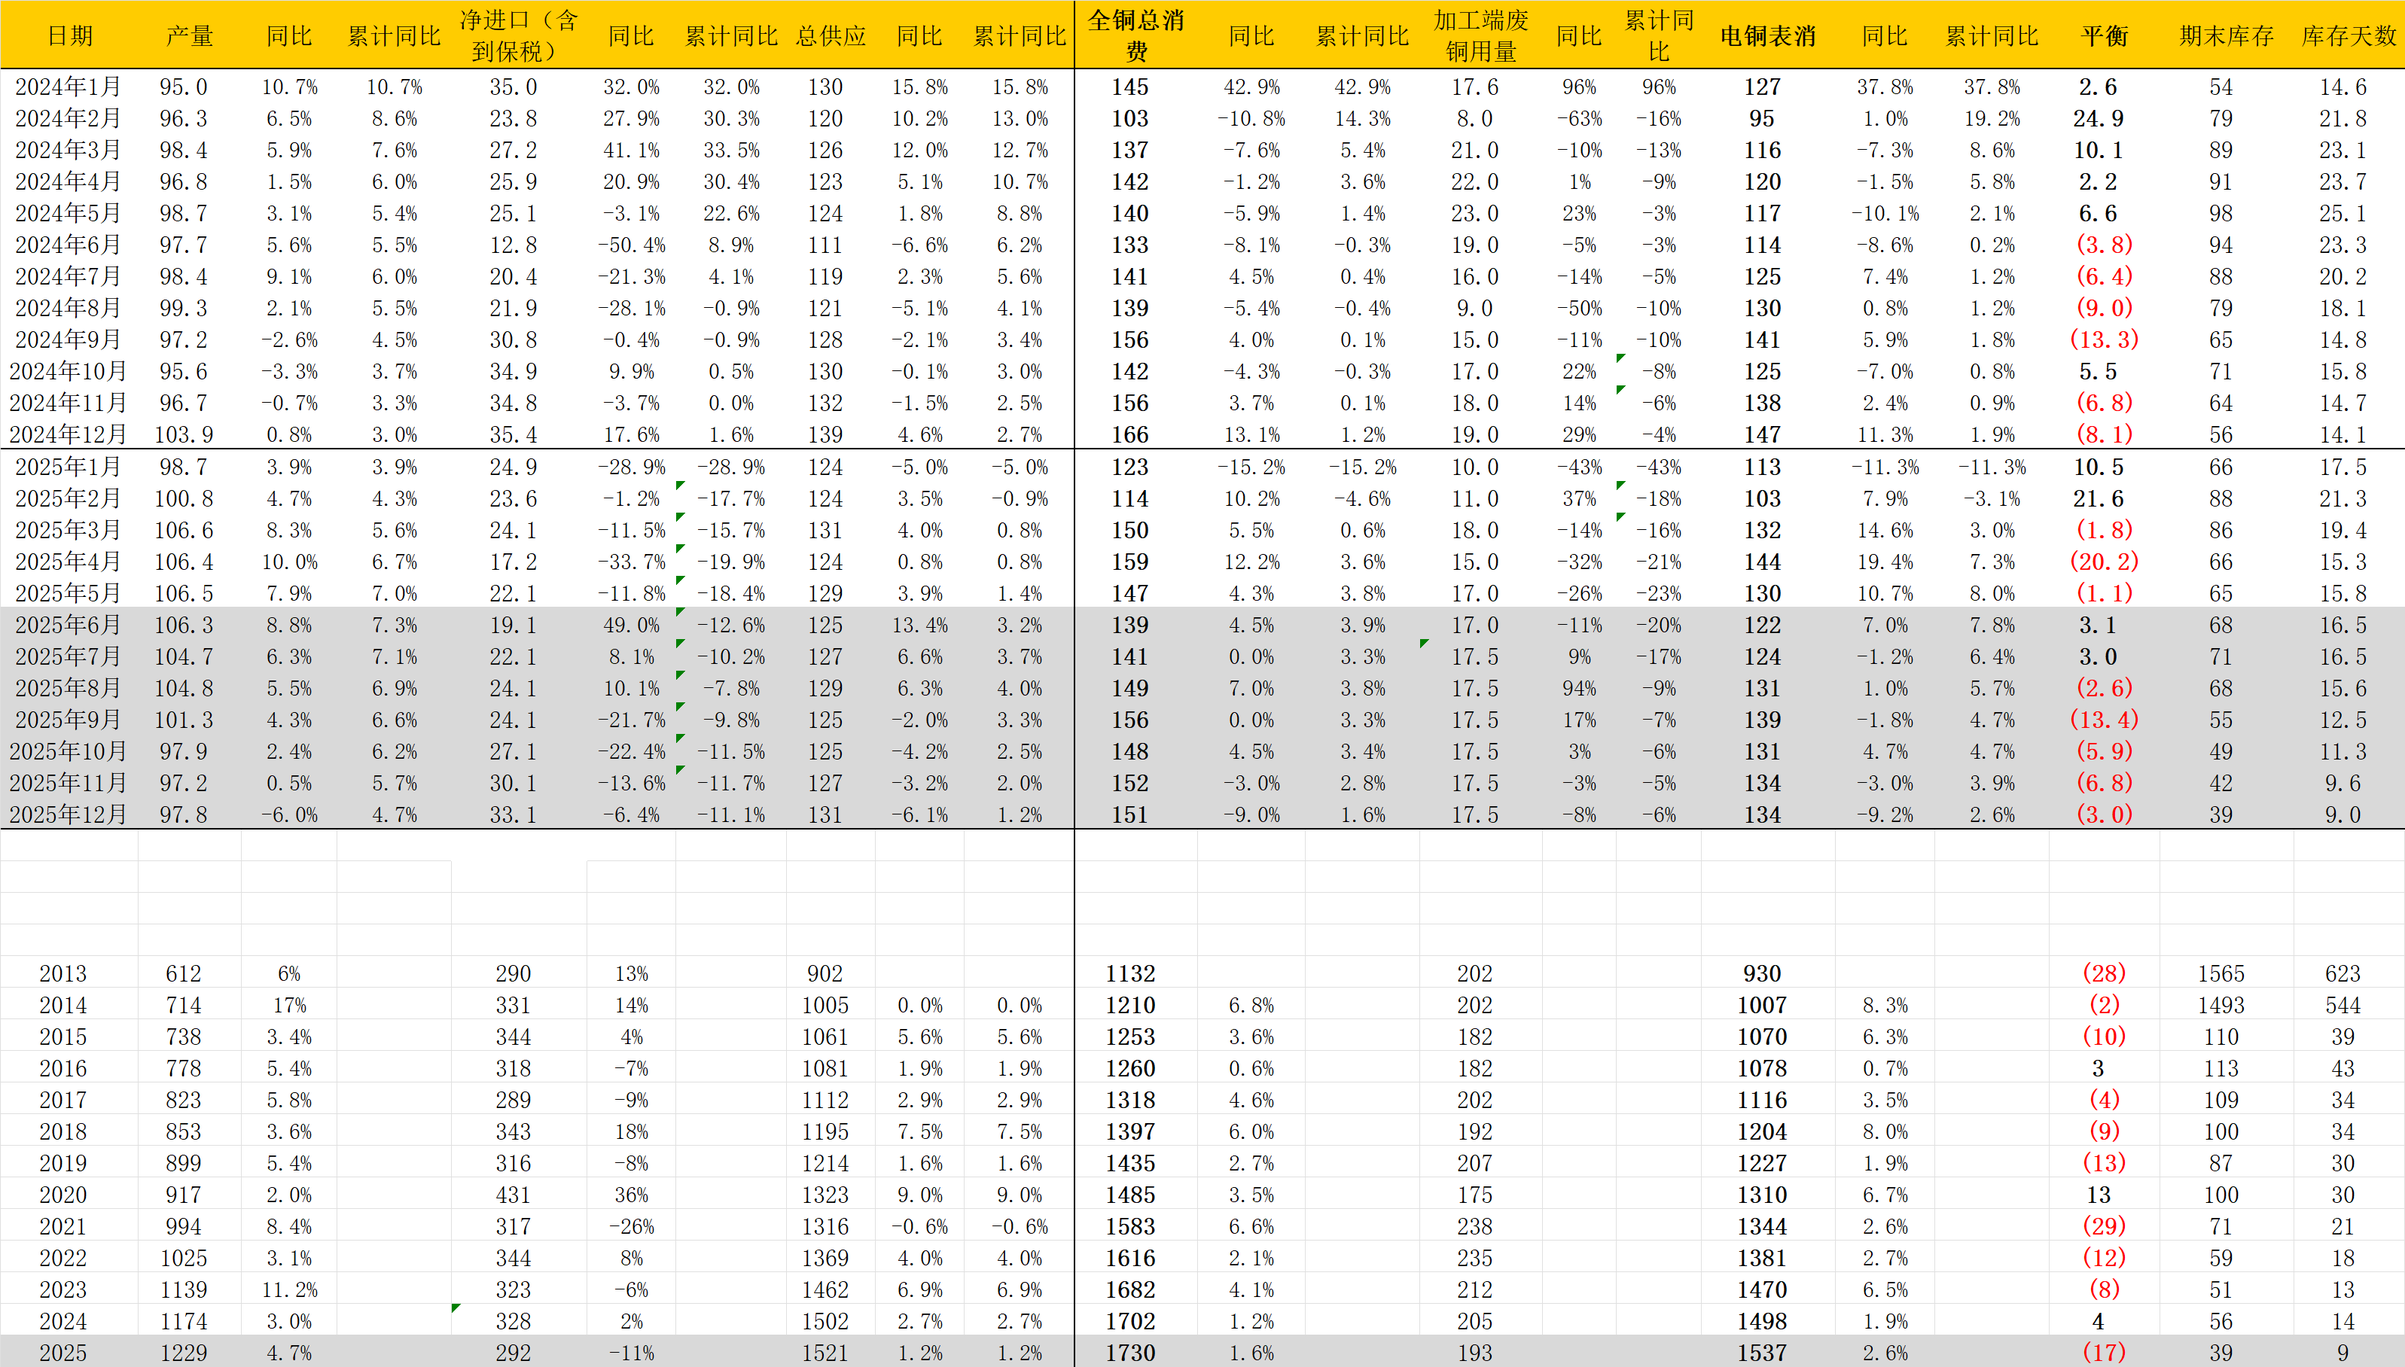
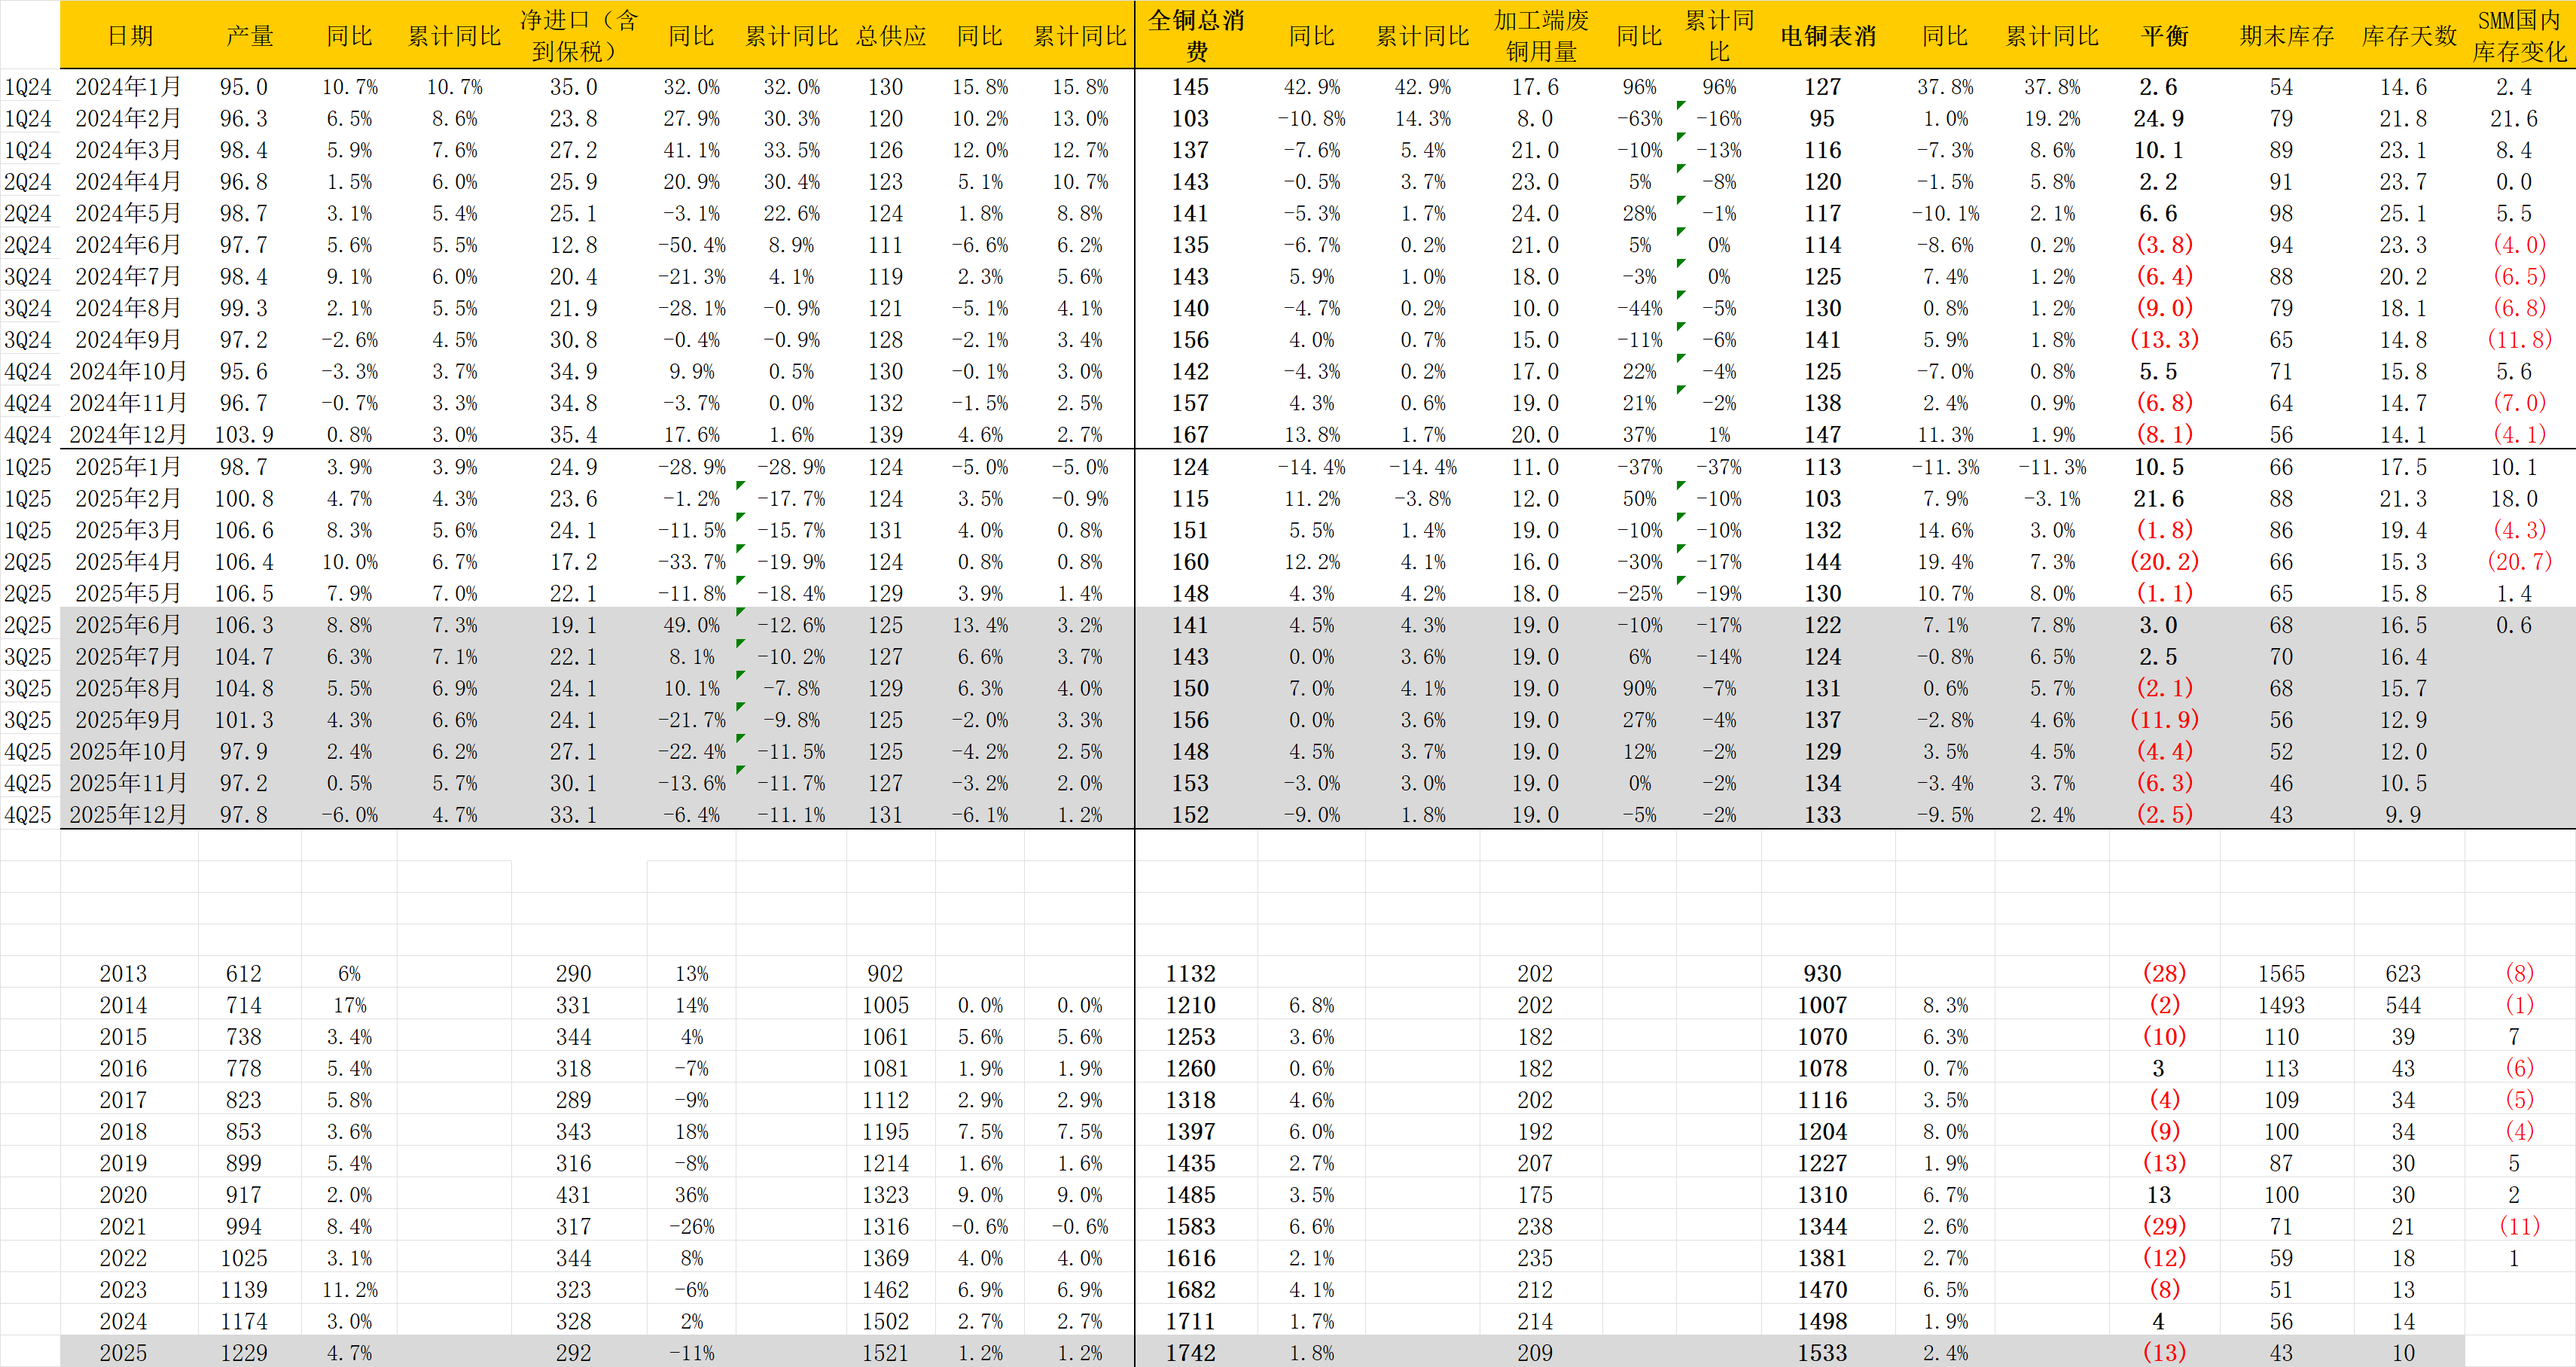
yfwu-main 2025-6-23:0:1:9

diff --git a/铜市场分析20250622.md b/铜市场分析20250622.md
@@ -1,6 +1,6 @@
 详细图表更新： https://yingfengwu-cn.github.io/qztz/
 
-<font color = red>**总结：短期看回调，四季度看反弹：终端消费延续季节性走弱至同比持平，空调同比负增长，接下来三个月精替废效应（同比）将显著走弱，电铜表消同比增速下滑明显，在冶炼产量并未下调的过渡时期，铜价回调概率高。从原料角度四季度国内冶炼必然减产，关注布局中期做多机会。**</font>
+<font color = red>**总结：短期看回调，四季度看反弹：终端消费延续季节性走弱至同比持平，空调同比负增长，接下来三个月精替废效应（同比）将显著走弱，电铜表消同比增速下滑明显，在冶炼产量并未下调的过渡时期，铜价回调概率高。从原料角度四季度国内冶炼必然减产，今年全球元素开始出现缺口，关注布局中期做多机会。**</font>
 
 -<font size = 4> 策略推荐：单边75000以下做多。<font color = red>中国区库存周度+0.6w，五锐周度点价重新回落，预计下周延续小幅累库；另外需要注意到欧洲地区去库导致LME结构走强带来的挤仓风险。</font>预计6月将有小幅累库（小于5w），七月累库幅度接近。中期看，下半年要平衡国内库存非常容易，仅需满足以下任一条件满足即可：1.国内下半年冶炼环比明显减量；2.美国维持一个月7-10w超额进口。</font>
 - <font size = 4>周度主要变化简要：<font color = red>本周数据整体偏中性，电缆成品库存压力大+精废价差到中性水平+库存转为去库</font><font color = red>；cmx连续第十二周交仓，+0.7w</font>。
